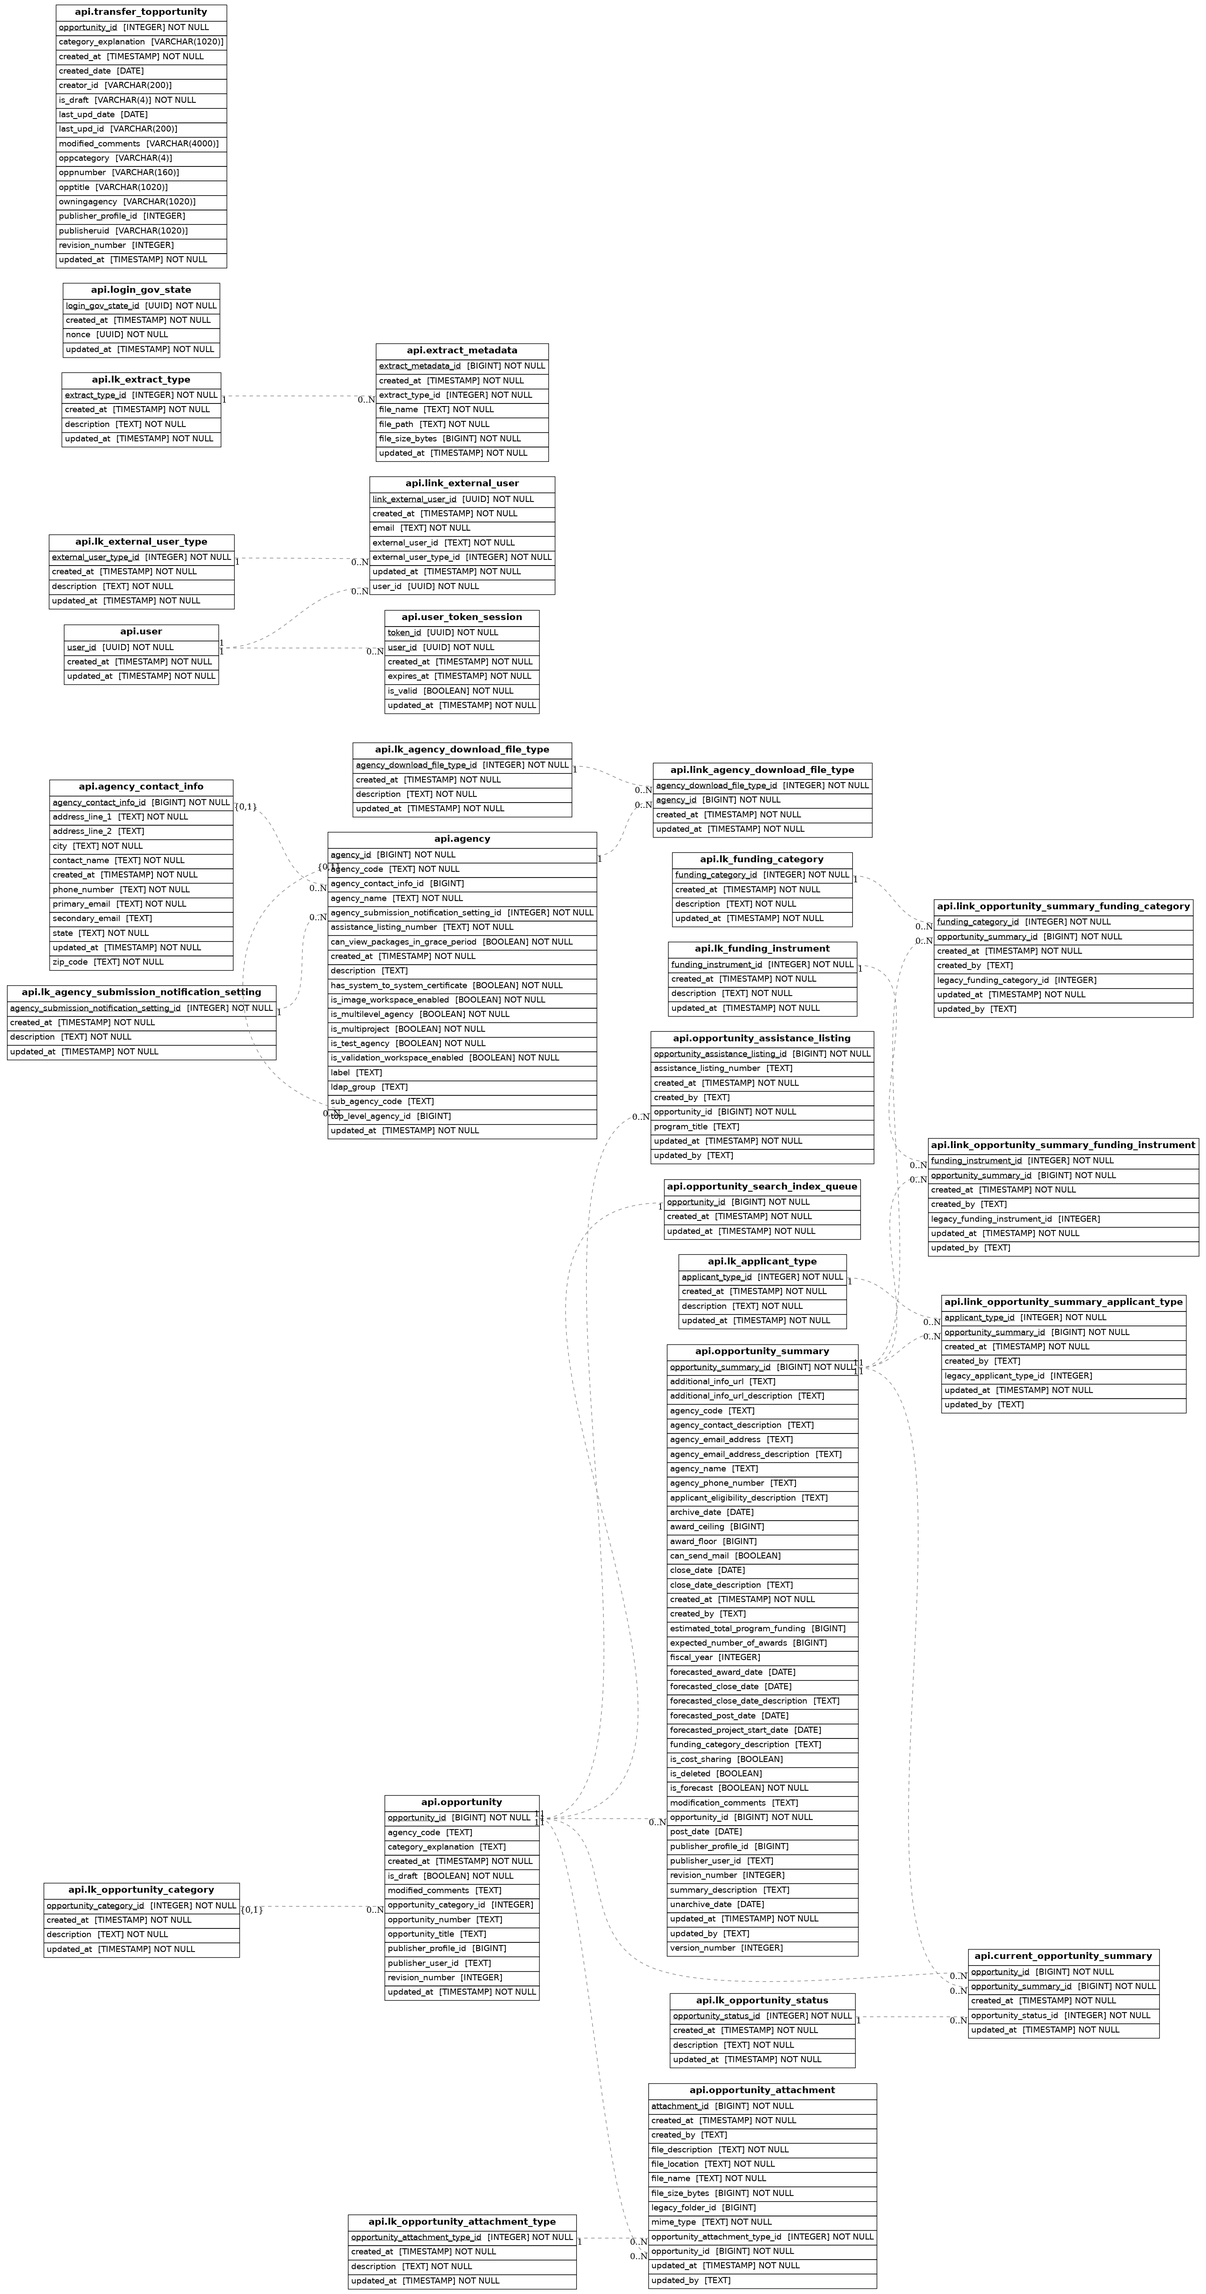
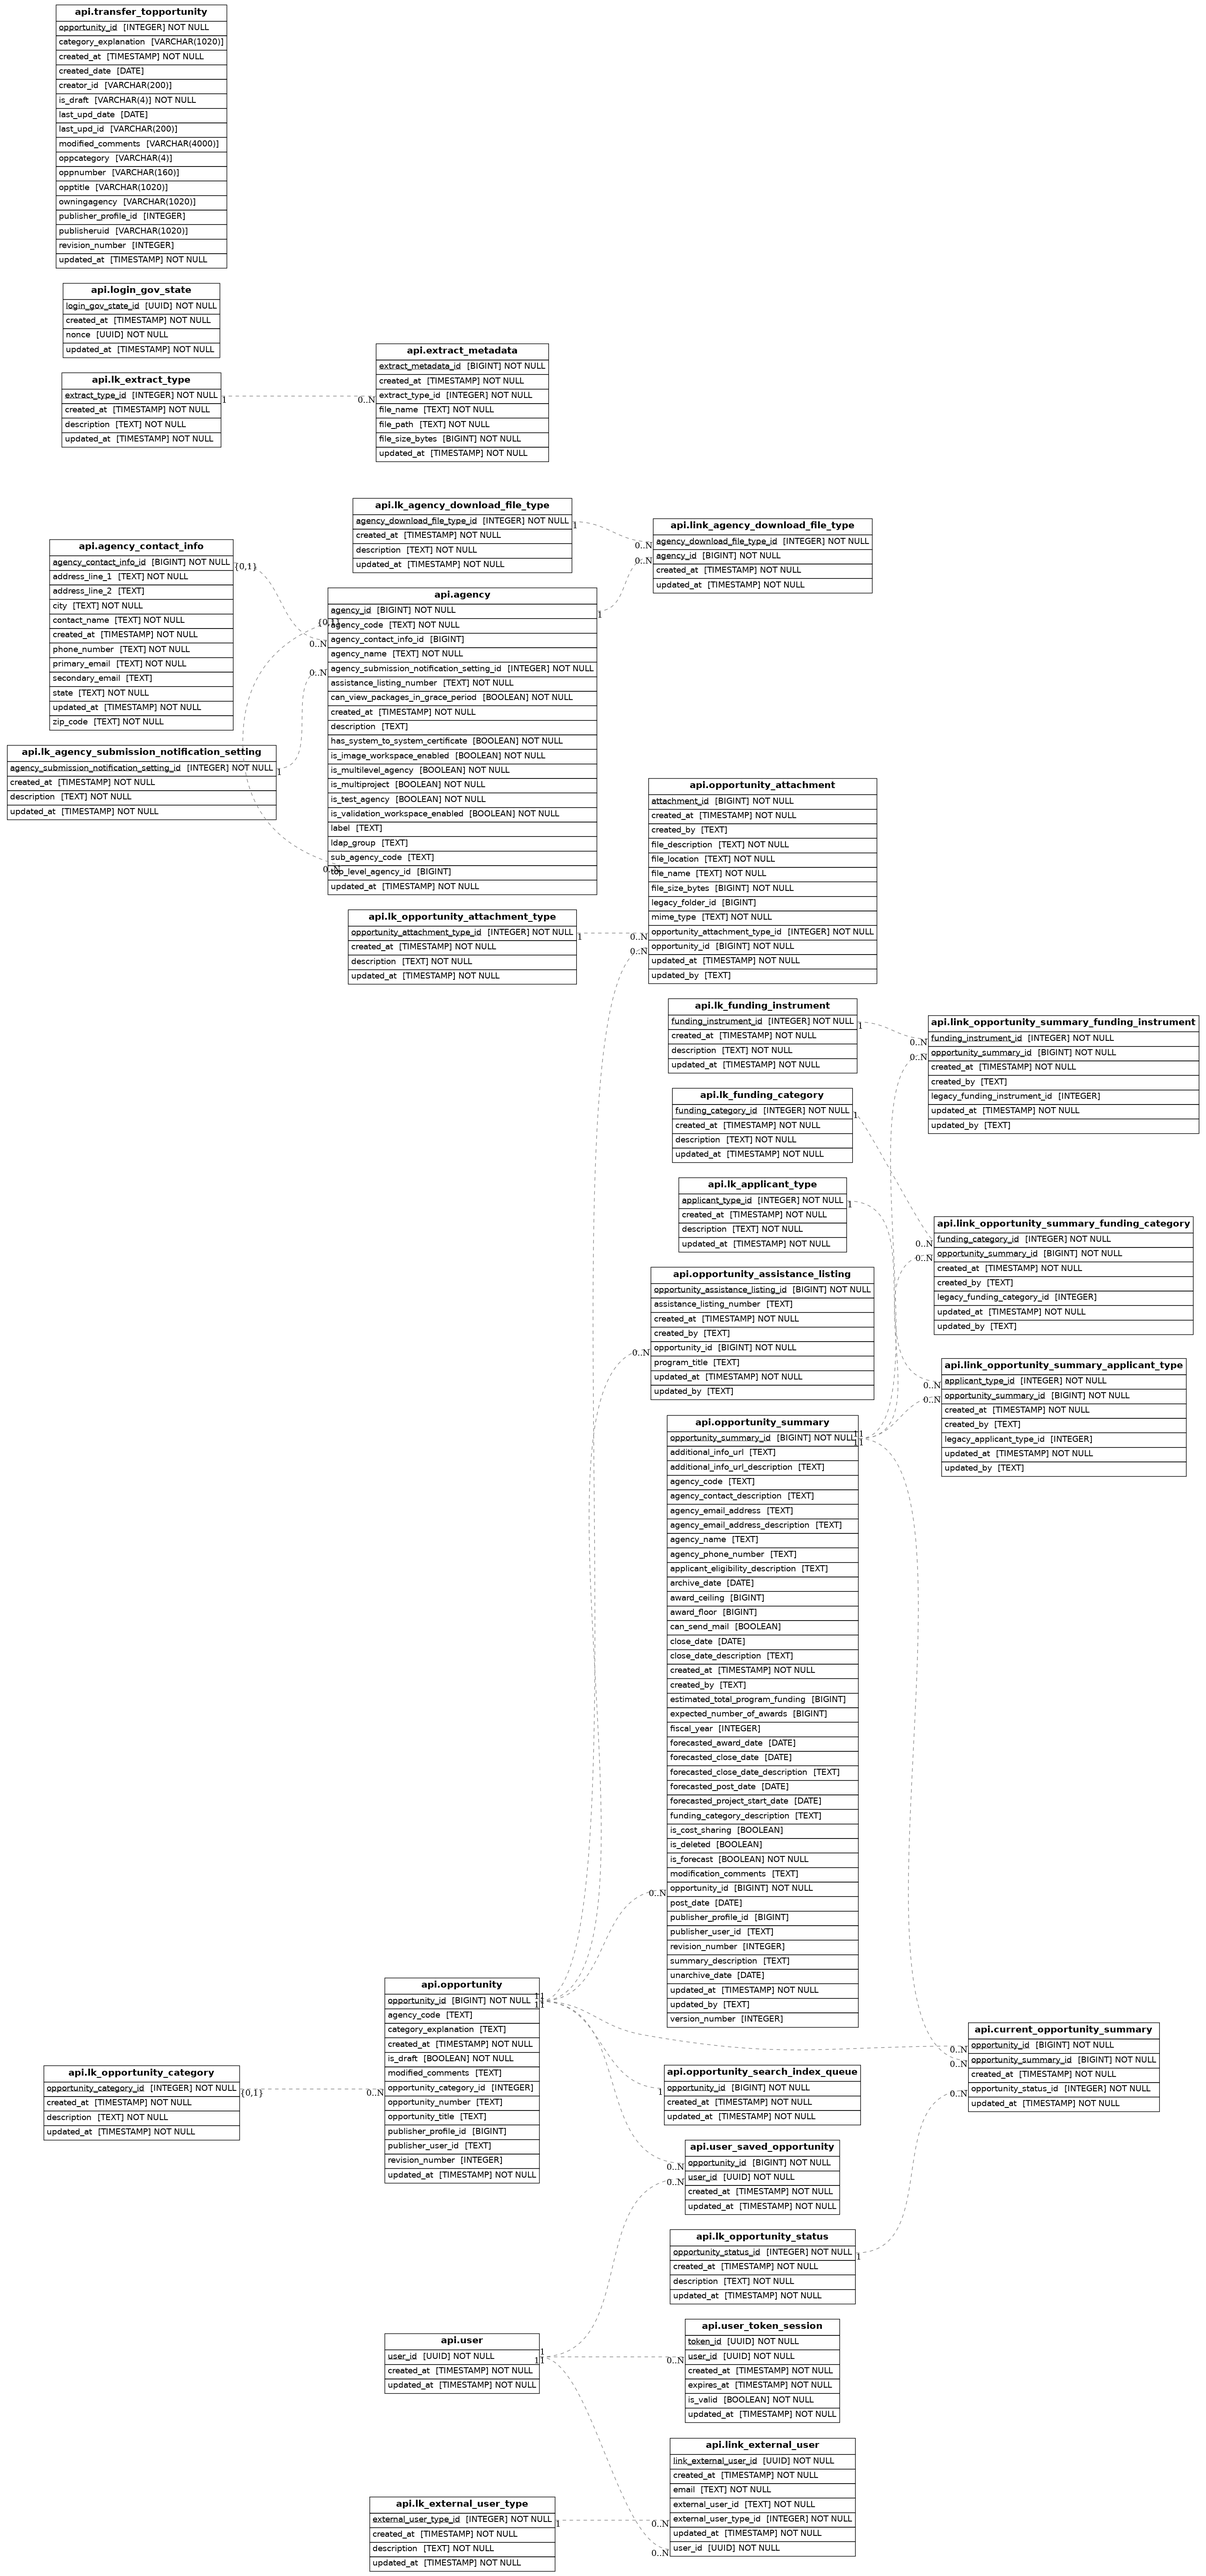
[Issue #3291] Create database tables for saved opportunities (#3325)
## Summary
Fixes #3291

### Time to review: 5 mins

## Changes proposed
Add a `user_saved_opportunity` table with columns as described in the
ticket.

## Context for reviewers
Needed for follow-on work with saved opportunity API tickets.

diff --git a/api/src/db/models/user_models.py b/api/src/db/models/user_models.py
@@ -1,7 +1,7 @@
 import uuid
 from datetime import datetime
 
-from sqlalchemy import ForeignKey
+from sqlalchemy import BigInteger, ForeignKey
 from sqlalchemy.dialects.postgresql import UUID
 from sqlalchemy.orm import Mapped, mapped_column, relationship
 
@@ -9,12 +9,20 @@ from src.adapters.db.type_decorators.postgres_type_decorators import LookupColum
 from src.constants.lookup_constants import ExternalUserType
 from src.db.models.base import ApiSchemaTable, TimestampMixin
 from src.db.models.lookup_models import LkExternalUserType
+from src.db.models.opportunity_models import Opportunity
 
 
 class User(ApiSchemaTable, TimestampMixin):
     __tablename__ = "user"
 
     user_id: Mapped[uuid.UUID] = mapped_column(UUID, primary_key=True, default=uuid.uuid4)
+
+    saved_opportunities: Mapped[list["UserSavedOpportunity"]] = relationship(
+        "UserSavedOpportunity",
+        back_populates="user",
+        uselist=True,
+        cascade="all, delete-orphan",
+    )
 
 
 class LinkExternalUser(ApiSchemaTable, TimestampMixin):
@@ -60,3 +68,17 @@ class LoginGovState(ApiSchemaTable, TimestampMixin):
 
     # https://openid.net/specs/openid-connect-core-1_0.html#NonceNotes
     nonce: Mapped[uuid.UUID]
+
+
+class UserSavedOpportunity(ApiSchemaTable, TimestampMixin):
+    __tablename__ = "user_saved_opportunity"
+
+    user_id: Mapped[uuid.UUID] = mapped_column(ForeignKey(User.user_id), primary_key=True)
+    opportunity_id: Mapped[int] = mapped_column(
+        BigInteger, ForeignKey(Opportunity.opportunity_id), primary_key=True
+    )
+
+    user: Mapped[User] = relationship(User, back_populates="saved_opportunities")
+    opportunity: Mapped[Opportunity] = relationship(
+        "Opportunity", back_populates="saved_opportunities_by_users"
+    )

diff --git a/api/src/db/migrations/versions/2024_12_19_create_user_saved_opportunity_table.py b/api/src/db/migrations/versions/2024_12_19_create_user_saved_opportunity_table.py
@@ -1,0 +1,56 @@
+"""Create user saved opportunity table
+
+Revision ID: 232a9223ed9b
+Revises: 6a23520d2c3c
+Create Date: 2024-12-19 22:41:02.487364
+
+"""
+
+import sqlalchemy as sa
+from alembic import op
+
+# revision identifiers, used by Alembic.
+revision = "232a9223ed9b"
+down_revision = "f8058a6c0a66"
+branch_labels = None
+depends_on = None
+
+
+def upgrade():
+    # ### commands auto generated by Alembic - please adjust! ###
+    op.create_table(
+        "user_saved_opportunity",
+        sa.Column("user_id", sa.UUID(), nullable=False),
+        sa.Column("opportunity_id", sa.BigInteger(), nullable=False),
+        sa.Column(
+            "created_at",
+            sa.TIMESTAMP(timezone=True),
+            server_default=sa.text("now()"),
+            nullable=False,
+        ),
+        sa.Column(
+            "updated_at",
+            sa.TIMESTAMP(timezone=True),
+            server_default=sa.text("now()"),
+            nullable=False,
+        ),
+        sa.ForeignKeyConstraint(
+            ["user_id"], ["api.user.user_id"], name=op.f("user_saved_opportunity_user_id_user_fkey")
+        ),
+        sa.ForeignKeyConstraint(
+            ["opportunity_id"],
+            ["api.opportunity.opportunity_id"],
+            name=op.f("user_saved_opportunity_opportunity_id_opportunity_fkey"),
+        ),
+        sa.PrimaryKeyConstraint(
+            "user_id", "opportunity_id", name=op.f("user_saved_opportunity_pkey")
+        ),
+        schema="api",
+    )
+    # ### end Alembic commands ###
+
+
+def downgrade():
+    # ### commands auto generated by Alembic - please adjust! ###
+    op.drop_table("user_saved_opportunity", schema="api")
+    # ### end Alembic commands ###

diff --git a/api/src/db/models/opportunity_models.py b/api/src/db/models/opportunity_models.py
@@ -1,4 +1,5 @@
 from datetime import date
+from typing import TYPE_CHECKING
 
 from sqlalchemy import BigInteger, ForeignKey, UniqueConstraint
 from sqlalchemy.ext.associationproxy import AssociationProxy, association_proxy
@@ -23,6 +24,9 @@ from src.db.models.lookup_models import (
     LkOpportunityCategory,
     LkOpportunityStatus,
 )
+
+if TYPE_CHECKING:
+    from src.db.models.user_models import UserSavedOpportunity
 
 
 class Opportunity(ApiSchemaTable, TimestampMixin):
@@ -75,6 +79,13 @@ class Opportunity(ApiSchemaTable, TimestampMixin):
 
     all_opportunity_summaries: Mapped[list["OpportunitySummary"]] = relationship(
         back_populates="opportunity", uselist=True, cascade="all, delete-orphan"
+    )
+
+    saved_opportunities_by_users: Mapped[list["UserSavedOpportunity"]] = relationship(
+        "UserSavedOpportunity",
+        back_populates="opportunity",
+        uselist=True,
+        cascade="all, delete-orphan",
     )
 
     agency_record: Mapped[Agency | None] = relationship(
